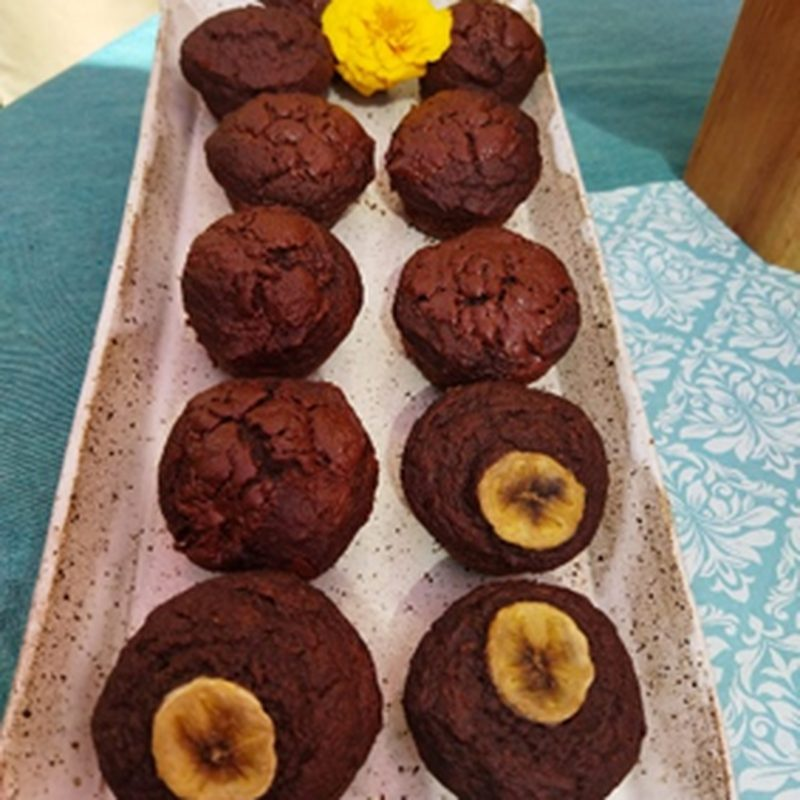
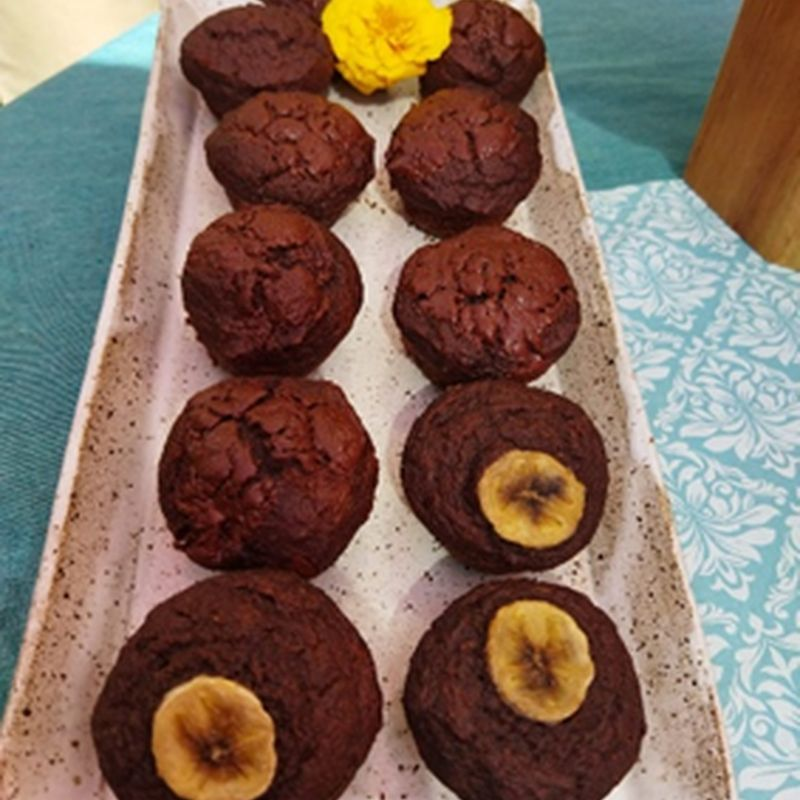
feat: move Mandala de Morango to Festa with a new photo
The cake moves from Clássicos to the end of Festa (id festa-mandala-morango),
with the new top-down photo. prepare_assets.py now reads the photos sent
separately (mandala and cacau muffin) from assets-src/extras.

diff --git a/src/data/cardapio.js b/src/data/cardapio.js
@@ -55,10 +55,6 @@ export const categorias = [
         descricao: 'Massa de cenoura e damascos. Coberto com ganache de chocolate 50% Baby Friendly e finalizado com physalis.',
         foto: img('classico-cenoura-damasco-cacau'), alt: 'Bolo de cenoura e damasco com ganache de chocolate',
         opcoes: [{ rotulo: 'Pequeno', detalhe: '9 a 10 fatias · 900 g', preco: 180 }, { rotulo: 'Médio', detalhe: '12 a 14 fatias · 1,2 kg', preco: 290 }] },
-      { id: 'classico-mandala-morango', nome: 'Mandala de Morango', tags: ['bf', 'sazonal'],
-        descricao: 'Bolo de cacau 100%, tâmaras e frutas secas, coberto com ganache de chocolate 50% e decorado com morangos frescos.',
-        foto: img('classico-mandala-morango'), alt: 'Bolo coberto com morangos em formato de mandala',
-        opcoes: [{ rotulo: 'Pequeno', detalhe: '8 a 12 fatias · 850 g', preco: 190 }, { rotulo: 'Médio', detalhe: '15 a 17 fatias · 1,5 kg', preco: 280 }] },
     ],
   },
   {
@@ -78,6 +74,10 @@ export const categorias = [
         descricao: 'Massa de maçã e baunilha. Recheio de creme de baunilha e geleia de maçãs. Cobertura de creme de baunilha, finalizada com maçãs e mirtilos frescos.',
         foto: img('festa-maca-baunilha'), alt: 'Bolo coberto de creme, decorado com fatias de maçã, mirtilos e hortelã',
         opcoes: [SOB_CONSULTA], pendente: ['preco'] }, // TODO(conteúdo) P15: tags e preços (a Tânia vai enviar)
+      { id: 'festa-mandala-morango', nome: 'Mandala de Morango', tags: ['bf', 'sazonal'],
+        descricao: 'Bolo de cacau 100%, tâmaras e frutas secas, coberto com ganache de chocolate 50% e decorado com morangos frescos.',
+        foto: img('festa-mandala-morango'), alt: 'Bolo de cacau visto de cima, coberto com morangos inteiros e fatiados em mandala',
+        opcoes: [{ rotulo: 'Pequeno', detalhe: '8 a 12 fatias · 850 g', preco: 190 }, { rotulo: 'Médio', detalhe: '15 a 17 fatias · 1,5 kg', preco: 280 }] },
     ],
   },
   {

diff --git a/tests/cardapio.test.js b/tests/cardapio.test.js
@@ -21,13 +21,13 @@ describe('dados', () => {
   })
   it('contagem por categoria e linhas ajustadas (v4)', () => {
     const n = Object.fromEntries(categorias.map((c) => [c.id, c.itens.length]))
-    expect(n).toEqual({ classicos: 7, festa: 4, veganos: 5, docinhos: 3, muffins: 3, granola: 1, kits: 3 })
+    expect(n).toEqual({ classicos: 6, festa: 5, veganos: 5, docinhos: 3, muffins: 3, granola: 1, kits: 3 })
     // Os bolos veganos contêm glúten: selo Vegano, nunca Sem glúten
     const veganos = categorias.find((c) => c.id === 'veganos')
     expect(veganos.itens.every((i) => i.tags.includes('vg') && !i.tags.includes('sg'))).toBe(true)
     expect(veganos.nota.toLowerCase()).not.toContain('glúten')
     const ids = categorias.flatMap((c) => c.itens.map((i) => i.id))
-    for (const x of ['vegano-laranja', 'classico-maca-baunilha-nozes']) expect(ids).not.toContain(x)
+    for (const x of ['vegano-laranja', 'classico-maca-baunilha-nozes', 'classico-mandala-morango']) expect(ids).not.toContain(x)
   })
   it('nunca usa "baixo índice glicêmico"', () => {
     expect(JSON.stringify(categorias).toLowerCase()).not.toContain('índice glicêmico')
@@ -59,7 +59,7 @@ describe('renderCardapio', () => {
     expect(tabs[0].getAttribute('aria-selected')).toBe('true')
     const panels = root.querySelectorAll('[role="tabpanel"]')
     expect([...panels].filter((p) => !p.hidden)).toHaveLength(1)
-    expect(panels[0].querySelectorAll('.produto')).toHaveLength(7)
+    expect(panels[0].querySelectorAll('.produto')).toHaveLength(6)
   })
 
   it('clicar numa aba troca o painel e dispara cardapio:change', () => {

diff --git a/scripts/prepare_assets.py b/scripts/prepare_assets.py
@@ -154,11 +154,11 @@ CARDAPIO = {
     "classico-cacau-tamaras": SET[19],
     "classico-pera-amendoas": SET[3],
     "classico-cenoura-damasco-cacau": GPT[13],
-    "classico-mandala-morango": GPT[0],
     "festa-limao-mirtilos": SET[5],
     "festa-cacau-tamaras": SET[6],
     "festa-damasco-banana": SET[7],
     "festa-maca-baunilha": Image.open(SRC / "extras" / "festa-maca-baunilha.jpg").convert("RGB"),  # foto enviada à parte
+    "festa-mandala-morango": Image.open(SRC / "extras" / "festa-mandala-morango.jpg").convert("RGB"),  # foto enviada à parte
     "vegano-chocolatudo": SET[8],
     "vegano-limao-siciliano": SET[10],
     "vegano-chocolate-banana": ANT[0],            # TODO(conteúdo) P5: baixa resolução
@@ -167,6 +167,7 @@ CARDAPIO = {
     "docinho-cacau-avela": SET[12],
     "docinho-beijinho": SET[14],
     "docinho-cajuzinho": SET[13],
+    "muffin-cacau": Image.open(SRC / "extras" / "muffin-cacau.jpg").convert("RGB"),  # foto enviada à parte (baixa resolução)
     "muffin-cenoura": SET[17],
     "granola": SET[15],
 }
